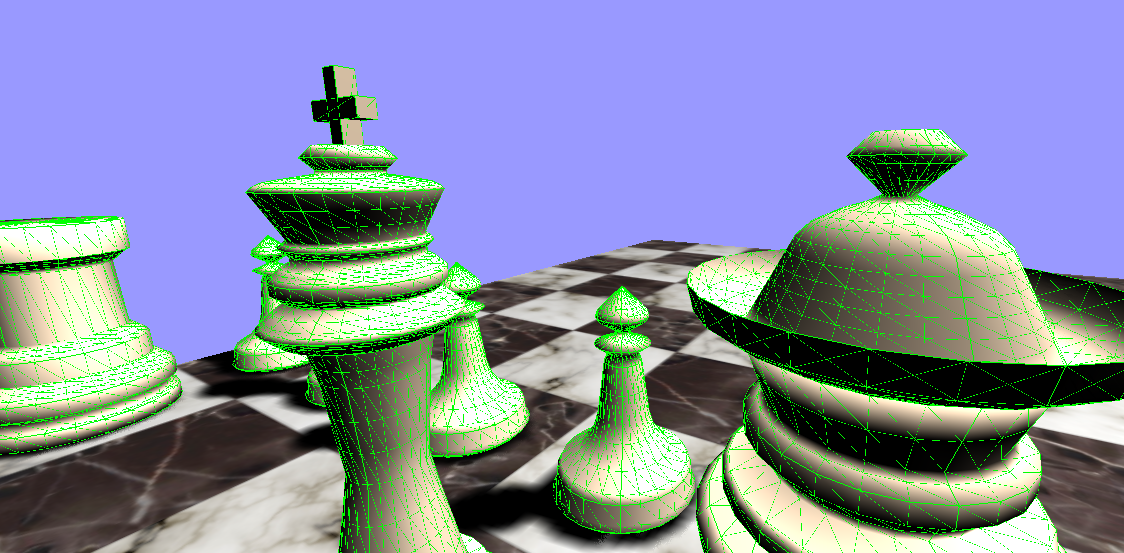
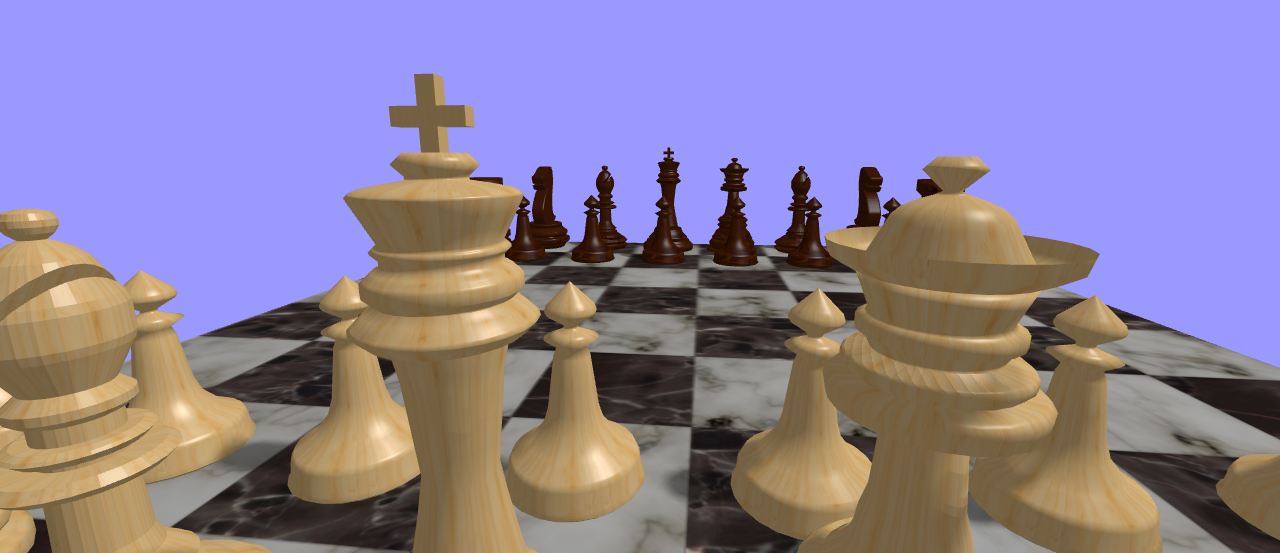
Updated 4th assignment with textures

diff --git a/assignments/assignment4/Chess.html b/assignments/assignment4/Chess.html
@@ -29,6 +29,7 @@
 
 			var spotLight, spotLight2, ambientLight;
 			var helper;
+			var degree = Math.PI/180;
 			var params = {
 				castShadow: true,
 				shadowCameraVisible: false,
@@ -52,16 +53,26 @@
 			renderer.gammaInput = true;
 			renderer.gammaOutput = true;
 
+			// Textures
+			var textureLoader = new THREE.TextureLoader();
+
+			lightPieceTexture = textureLoader.load( "img/LightPieceTexture.jpg" );
+			lightPieceTexture.repeat.set( 5, 8 );
+			lightPieceTexture.wrapS = lightPieceTexture.wrapT = THREE.RepeatWrapping;
+
+			darkPieceTexture = textureLoader.load( "img/DarkPieceTexture.jpg" );
+
 			// Camera
 			camera = new THREE.PerspectiveCamera( 65, window.innerWidth / window.innerHeight, 1, 10000 );
 			camera.position.set( 500, 300, -400 );
 
 			// Spotlight
 			spotLight = new THREE.SpotLight( 0xffffff, 0.6, 0, Math.PI/2 );
-			spotLight.position.set( -400, 1150, 200 );
-			spotLight.castShadow = params.castShadow;
+			spotLight.position.set( -400, 1350, 200 );
+			spotLight.castShadow = true;
 			spotLight.shadow = new THREE.LightShadow( new THREE.PerspectiveCamera( params.shadowCameraFov, 1, params.shadowCameraNear, params.shadowCameraFar ) );
 			spotLight.shadow.bias = params.shadowBias;
+			//spotLight.penumbra = 2
 			scene.add( spotLight );
 
 			// Spotlight target
@@ -81,7 +92,7 @@
 			controls = new THREE.OrbitControls( camera, renderer.domElement );
 			controls.addEventListener( 'change', render );
 			controls.enableDamping = true;
-			controls.dampingFactor = 0.75;
+			controls.dampingFactor = 0.8;
 			controls.enableZoom = true;
 			controls.target.set( 500, 50, 600 );
 
@@ -120,15 +131,15 @@
 				helper.update();
 			});
 
-			gui.add( params, 'shadowBias', -0.01, 0.01 ).onChange( function () {
+			gui.add( params, 'shadowBias', -0.002, 0.008 ).onChange( function () {
 				spotLight.shadow.bias = params.shadowBias;
 			});
 
-			gui.add( params, 'targetX', -200, 1024 ).onChange( function () {
+			gui.add( params, 'targetX', -400, 1500 ).onChange( function () {
 				spotLight.target.position.set( params.targetX, 0, params.targetZ );
 			});
 
-			gui.add( params, 'targetZ', -200, 1024 ).onChange( function () {
+			gui.add( params, 'targetZ', -400, 1500 ).onChange( function () {
 				spotLight.target.position.set( params.targetX, 0, params.targetZ );
 			});
 
@@ -140,9 +151,16 @@
 			color = pieceColor;
 
 			if ( color == 0 )
-				material = new THREE.MeshPhongMaterial({ color: 0xe5e589 });
+				//material = new THREE.MeshPhongMaterial({ color: 0xe5e589 });
+				material = new THREE.MeshPhongMaterial( {
+					shininess: 80,
+					map: lightPieceTexture
+				} );
 			else if ( color == 1 )
-				material = new THREE.MeshPhongMaterial({ color: 0x624121 });
+				material = new THREE.MeshPhongMaterial( {
+					shininess: 40,
+					map: darkPieceTexture
+				} );
 		}
 
 		// Creates the chess board and generates pieces on both sides
@@ -250,7 +268,10 @@
 			knightGroupClone = knightGroup.clone();
 			knightGroupClone.children.forEach(function(part) {
 				part.material = knightGroup.children[0].material.clone();
-				part.material.color.setHex( 0x624121 );
+				part.material = material = new THREE.MeshPhongMaterial( {
+					shininess: 40,
+					map: darkPieceTexture
+				} );
 			});
 
 			// Black knight clones
@@ -359,7 +380,7 @@
 				points.push(new THREE.Vector2( piece.pointsX[i], piece.pointsY[i] ));
 			}
 
-			figureGeometry = new THREE.LatheGeometry( points, 36 );
+			figureGeometry = new THREE.LatheGeometry( points, 24 );
 			figure = new THREE.Mesh( figureGeometry, material );
 			figure.castShadow = true;
 			figure.receiveShadow = true;
